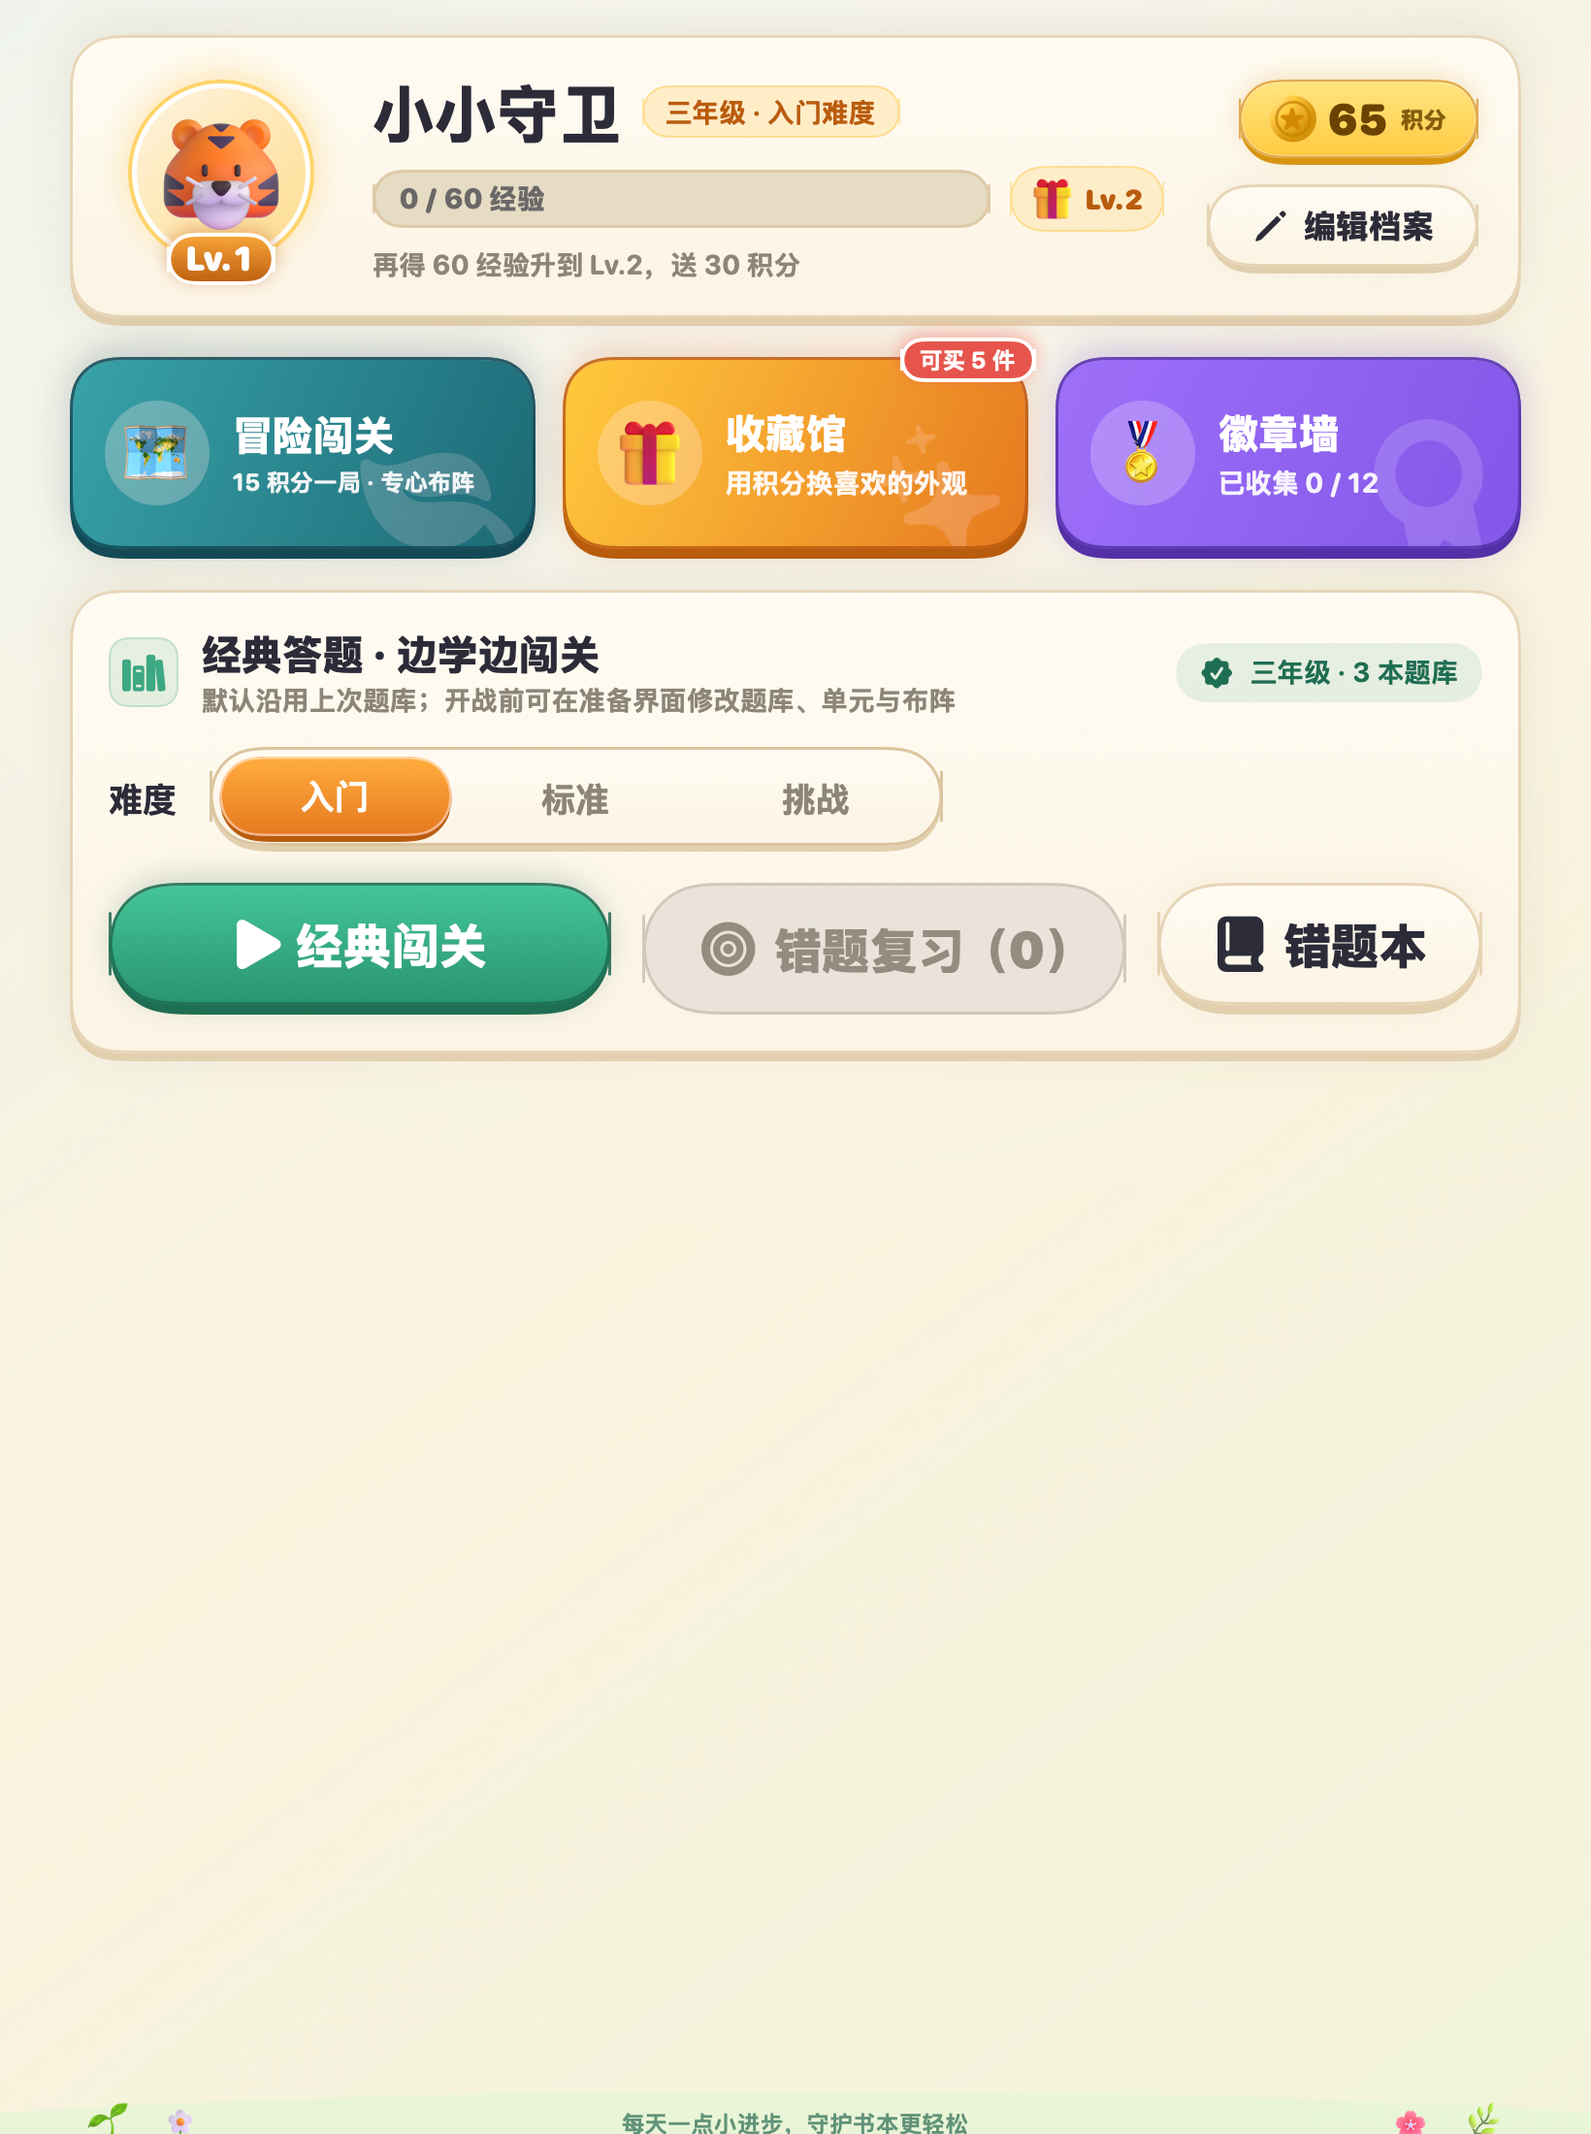
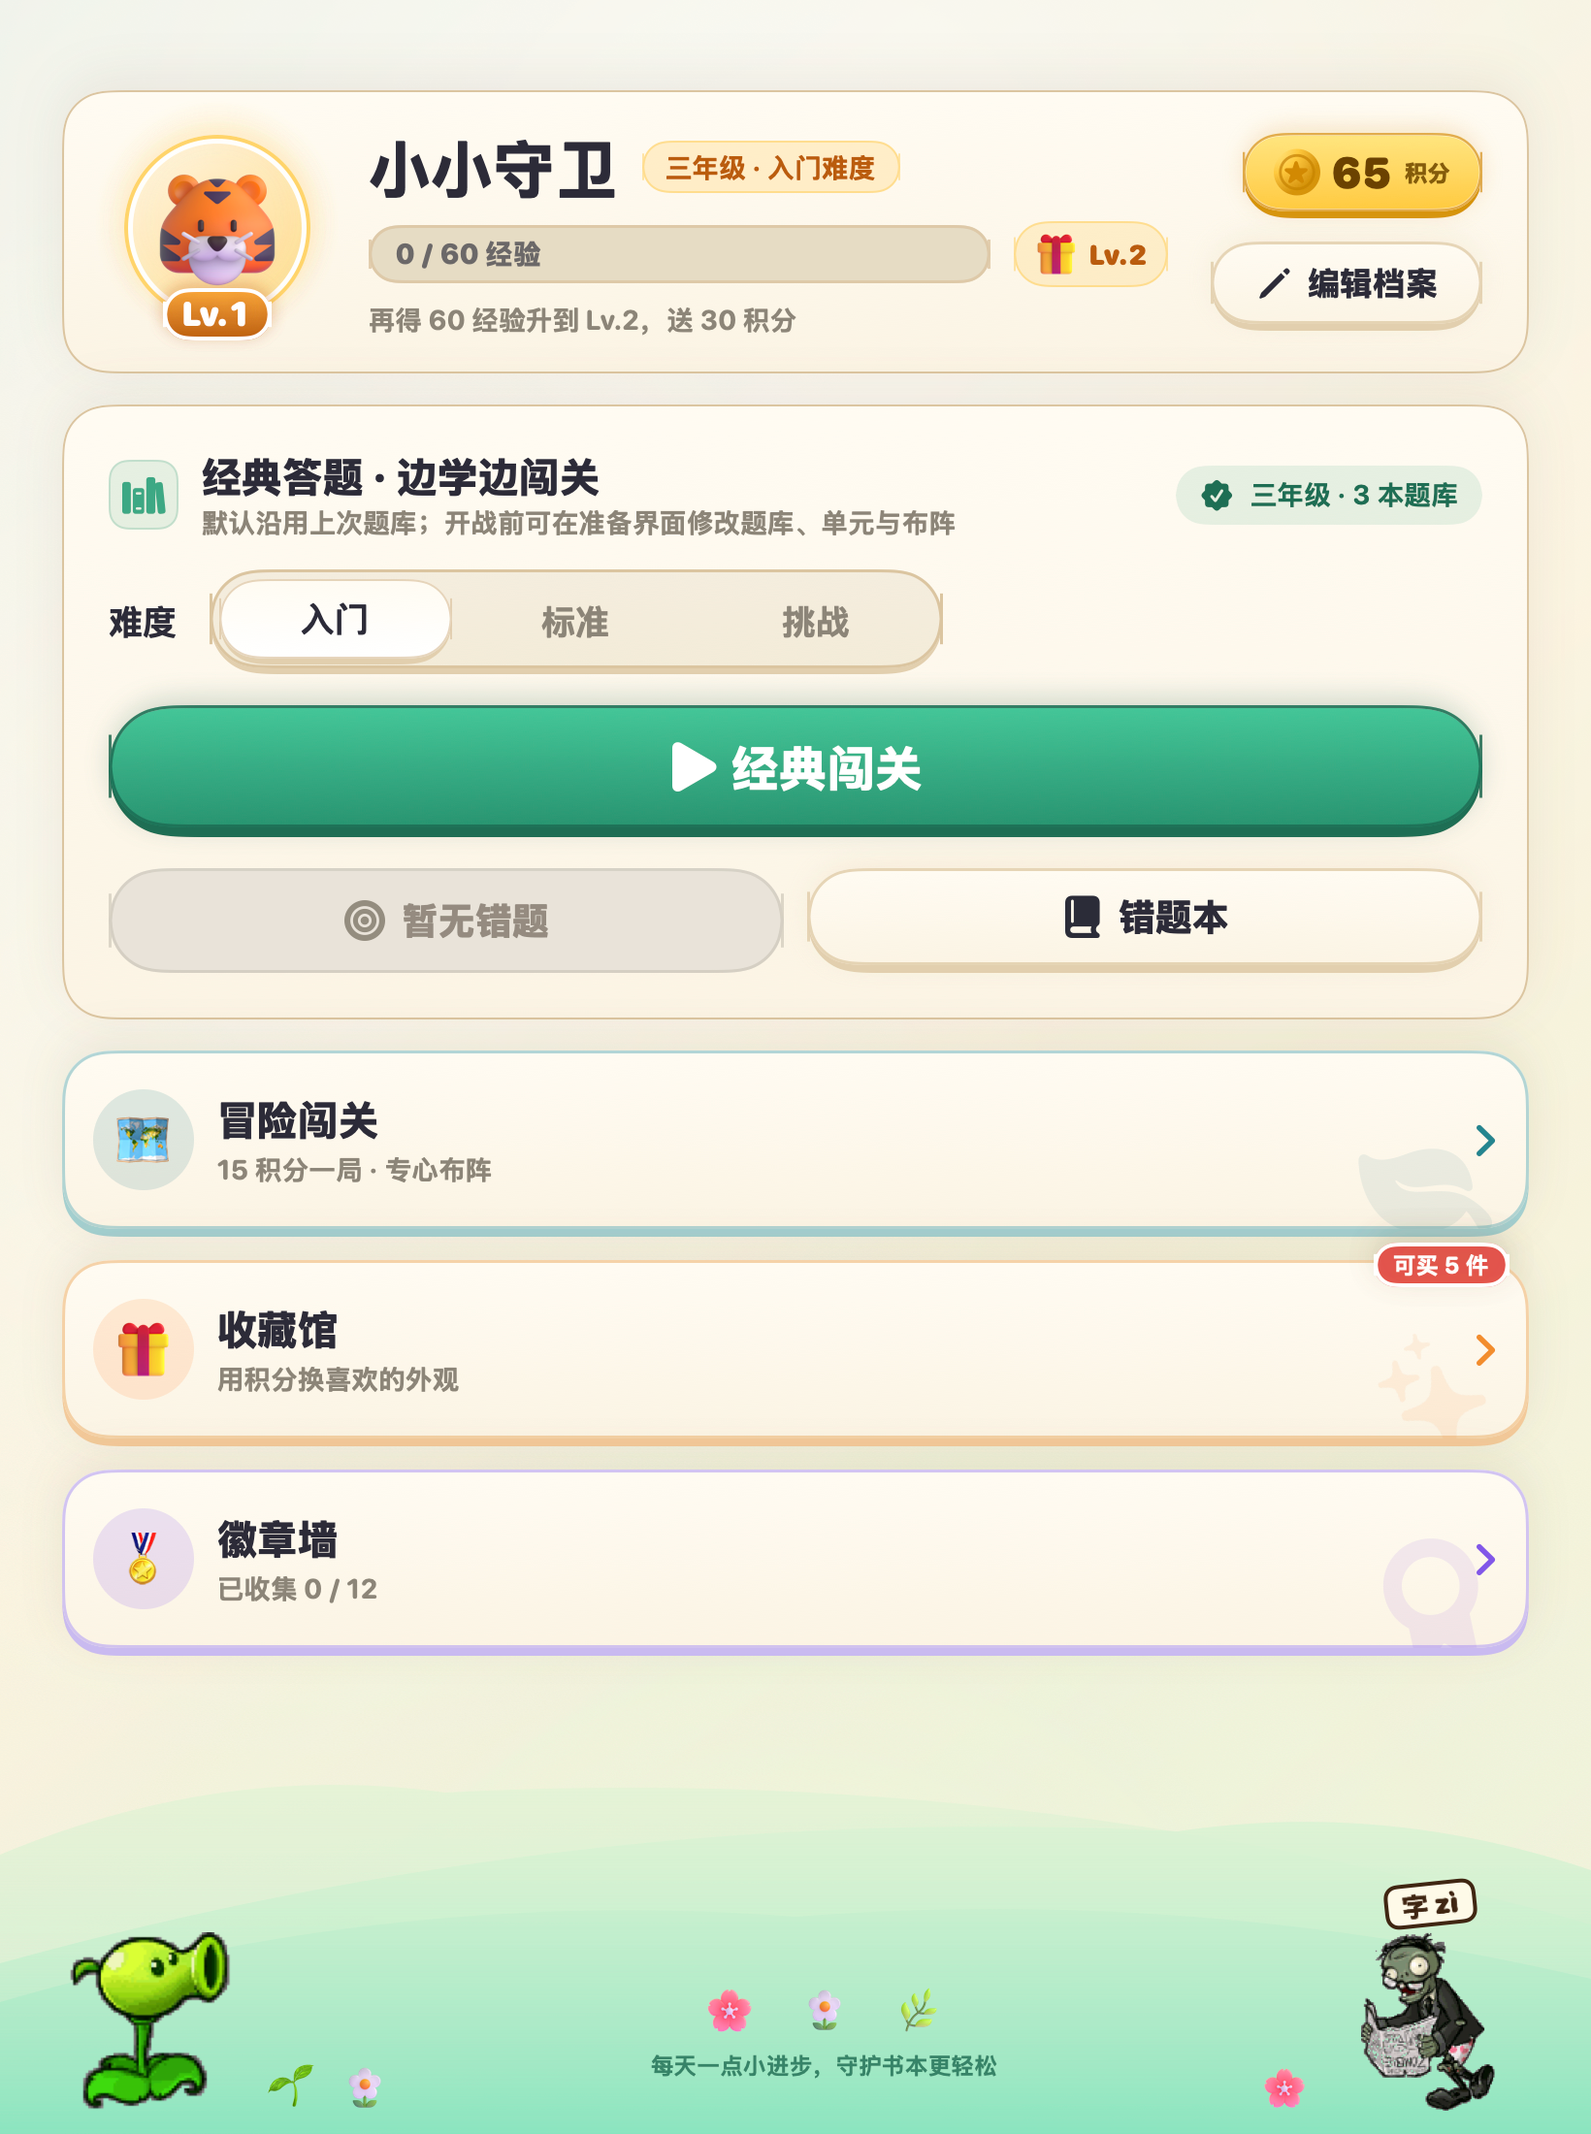
docs: UI 风格优化收口文档与最新基线截图

diff --git a/docs/ui-current/README.md b/docs/ui-current/README.md
@@ -1,23 +1,23 @@
 # 当前界面与设计基线
 
-核对日期：2026-11-26。代码基线：`main` / `0aab576a09be88d10c24a2d5371f6e71e13a87fd`。
+核对日期：2026-11-26。代码基线：`fix/fresh-game-fullscreen-map` / `2c8ad5f`（合入 `main` 的 `fe9733c` 并完成 UI 风格优化 B 档）。
 
 本文记录已经实现的界面。后续设计先核对当前代码和本目录的真实界面导出，再参考历史美术稿。
 
-实现更新：已清理 `a8986a5` 历史快照并基于当前 `main`（`0aab576`）重新导出全部 13 张基线截图，涵盖最新古树秘境草坪、糖果弹窗按钮样式及毁灭菇冒险卡位。
+实现更新：已完成绘本瓷釉四层表面体系（`AppSpacing` / `AppShadow` / `AppMotion` / `appPanel` / `appInset` / `AppModalScaffold`）全站迁移、主页与弹窗样板重排、冒险全屏铺满战场与单条顶栏整合，并基于 `2c8ad5f` 重新导出全部 13 张基线截图（前后端对照见 [UI 风格优化说明](../ui-refresh/README.md)）。
 
 ## 两套战斗界面
 
 | 区域 / 行为 | 经典闯关 | 森林冒险 |
 | --- | --- | --- |
 | 核心规则 | 答对题触发攻击，僵尸题牌用于选题 | 植物自动攻击，敌人牌子显示生命数值 |
-| 顶部 | `BattleTopBar` 容纳植物卡、阳光及 `GameHUD`，不足时分行 | 关卡名、波次 / 难度、基地生命 `x/10`、阳光、战斗时间、暂停 / 返回 |
-| 植物卡 | 顶部拖动种植，含独立铁栅门入口 | 顶部独立一行：阳光牌、所选四张植物卡、铲除按钮；卡组在冒险地图准备区选择 |
-| 战场 | `GameScene`，地图可切换；横屏可向右扩展 | `AdventureScene`，林间草坪，1200×600 场景、2:1 等比完整显示，五行九列 |
-| 战场下方 | 独立 `BattleActionBar`：大招、横向掉落道具、地图名 | 击败数量 / 波间倒计时、`雷霆大招 x/12`、敌人预告 |
+| 顶部 | `BattleTopBar` 统一 `.appPanel` 容器容纳植物卡、阳光及 `GameHUD`（`.appInset`），不足时分行 | 关卡名、波次 / 难度、基地生命 `x/10`、战斗时间与暂停 / 返回合并为一条 `.appPanel` 状态栏 |
+| 植物卡 | 顶部拖动种植，含独立铁栅门入口 | 独立一行：阳光牌、所选四张植物卡、铲除按钮；卡组在冒险地图准备区选择 |
+| 战场 | `GameScene`，地图可切换；横屏可向右扩展 | `AdventureScene`，林间草坪，1200×600 场景全屏铺满显示，五行九列 |
+| 战场下方 | 独立 `BattleActionBar`（`.appPanel`）：大招、横向掉落道具、地图名 | 紧凑底栏（`.appPanel`）：击败数量 / 波间倒计时、`雷霆大招 x/12`、敌人预告 |
 | 底部答题区 | 横屏左侧竖排切题，右侧答题；竖屏上方横排切题 | 没有答题区，也没有经典掉落道具栏 |
 | 准备阶段 | 题库与难度配置、布阵、开战核对弹窗 | 先布阵，至少一位射手；正式开战消耗 15 积分，局内花阳光 |
-| 恢复 | 后台暂停，异常关闭后重新开局 | 保存快照，可从冒险地图继续，不再次扣积分 |
+| 恢复 | 后台暂停，异常关闭后重新开局 | 后台暂停，离开战斗或返回地图即结束本局，再次进入开始新游戏，已消耗的 15 积分不返还 |
 
 源码入口：
 
@@ -27,8 +27,9 @@
 
 ## 当前视觉体系
 
-- 外层是暖米色 `Theme.paper`，文字为深灰，翡翠绿表达主要操作，橙色表达阳光和大招。
-- 冒险地图、弹窗和操作按钮使用现有糖果卡片、胶囊、厚底及按压反馈。
+- 外层是暖米色 `AppColor.paper` / `GrowthPageBackground`（L0），大容器采用无厚底的 `appPanel`（L1）与平面 `appInset`（L1-inset），仅可点击按钮与卡片采用立体厚底（L2）。
+- 文字为深墨 `AppColor.ink`，翡翠绿作为唯一主行动与选项选中色，琥珀金专用于积分/阳光/经验数值，橙色专用于大招与能量，分段控件统一采用白色凸起滑块。
+- 冒险地图、弹窗和操作按钮使用统一 `AppModalScaffold`、糖果胶囊、厚底及按压反馈；未解锁关卡用 `appPanel` 无厚底呈现且保留清晰可读性，推荐关卡加翡翠绿描边与「推荐」角标。
 - **战斗植物卡另用现有纹章边框**：深蓝卡面、银色边框、青色顶端宝石。不能把旧成长页的大白卡替代到种植栏。
 - 战场使用仓库中的 `woodland-grass.png`，植物与僵尸使用已导入的序列帧；不能按旧雷霆概念图改成三条路或重排书屋、道具和答题栏。
 - 植物卡默认 62×64 pt、头像 34×29 pt；复用实际名称与价格。新增视觉要在这个尺寸下也能辨认。
@@ -47,7 +48,7 @@ swift test --filter AdventureScreenTests
 
 关键文件：`landscape-home.png`、`landscape-map.png`、`landscape-preparing.png`、`landscape-battle.png` 及对应的 `portrait-*`；另有题库、开战核对弹窗。横屏 1180×736 pt，竖屏 820×1100 pt。平台字体和系统控件可能与 iPad 略有差异。
 
-2026-11-22 已执行上述命令，3 项界面测试通过，生成 13 张真实组件与场景导出。已目检横竖屏战斗图，确认四卡栏、五路草坪、战斗外操作区及竖屏保留的上下留白；未将该 macOS 导出等同于 iPad 实机验收。
+2026-11-26 已在 `fix/fresh-game-fullscreen-map`（`2c8ad5f`）执行上述命令，4 项界面测试通过，生成 13 张真实组件与场景导出。已目检横竖屏主页、地图、战斗及弹窗图，确认主页无大块空白、单条顶栏、全屏草坪与固定弹窗底栏；未将该 macOS 导出等同于 iPad 实机验收。
 
 ### 最新画面
 

diff --git a/docs/ui-refresh/README.md b/docs/ui-refresh/README.md
@@ -1,0 +1,43 @@
+# 字灵守卫 · UI 风格优化（B 档）总结与前后对照
+
+优化分支：`fix/fresh-game-fullscreen-map`（代码基线：`2c8ad5f`）。
+
+## 一、设计原则与 Token 收口
+
+在保留既有绘本瓷釉胶囊按钮、SF Rounded 圆体、翡翠绿主行动与战斗纹章种植卡（62×64 pt）的前提下，补齐结构层级与语义约束：
+
+1. **四层表面体系（`Support/DesignSystem.swift`）**
+   - **L0 背景层**：`GrowthPageBackground`（纯 SwiftUI 纸面径向高光与浅草色晕）。
+   - **L1 面板层**：`.appPanel(radius:tint:)`（暖白渐变、细描边与 `AppShadow.panel`，无厚底，用于大区块容器与未解锁状态卡）。
+   - **L1 内嵌层**：`.appInset(radius:tint:)`（平面浅底、1pt 细描边、无阴影，用于面板内部信息格与列表行，消除“卡套卡”）。
+   - **L2 交互层**：`.candyCard(...)` 与 `AppButton`（保留物理厚底与按压反馈，**仅用于可点击元素**）。
+2. **色彩语义单一化**
+   - **翡翠绿（`AppColor.jade`）**：每屏唯一满色 `.primary` 主按钮及选项/推荐选中态。
+   - **琥珀金（`AppColor.gold`）**：仅用于积分、阳光与经验等资源数值。
+   - **活力橙（`AppColor.accent`）**：仅用于大招、能量与升级/可买提示，不再用作分段控件选中态（`GrowthSegmentedPicker` 改为白色凸起滑块 + 深墨文字）。
+   - **浅色入口卡**：主页「冒险闯关 / 收藏馆 / 徽章墙」改为浅底 + 语义柔边 + 角标，不再与主行动按钮抢夺视觉中心。
+3. **新增统一 Token**
+   - **间距 `AppSpacing`**：`xxs(4)`、`xs(8)`、`sm(12)`、`md(16)`、`lg(24)`、`xl(32)`、`xxl(48)`。
+   - **阴影 `AppShadow`**：`panel`、`raised`、`floating`。
+   - **动效 `AppMotion`**：`press`、`appear`、`celebrate`、`stagger(_:)` 与尊重 `accessibilityReduceMotion` 的 `View.appAppear(index:)`。
+   - **弹窗脚手架 `AppModalScaffold`**：统一标题区、自适应内容区（支持 `scrollable: false` 内嵌独立滚动列表）与等宽固定底部操作栏。
+
+## 二、模块改动清单
+
+- **底座与样板**：`DesignSystem.swift`、`Theme.swift`、`GrowthComponents.swift`、`CandyModals.swift`、`ProfileHomeView.swift`、`GrowthHomeSection.swift`、`GameStartConfirmationView.swift`。
+- **战斗外框（W1）**：`BattleChrome.swift`、`BattleScreen.swift`、`GameHUD.swift`、`BattleOverlays.swift`、`AnswerPanel.swift`、`TileAnswerView.swift`、`UltimateButton.swift`、`SeedPacketStrip.swift`、`GameView.swift`、`BattlefieldView.swift`、`AdventureView.swift`。
+- **冒险地图与解锁（W2）**：`AdventureLobbyView.swift`、`AdventurePlacementPreview.swift`、`DoomShroomUnlockView.swift`。
+- **成长、收藏与结算（W3）**：`CollectionView.swift`、`CollectionView+Cards.swift`、`CollectionCardMaterial.swift`、`BadgeWallView.swift`、`GrowthBadges.swift`、`ResultView.swift`。
+- **档案、设置与弹窗（W4）**：`ProfilesView.swift`、`ProfileEditor.swift`、`HomeCarousel.swift`、`HomeCarousel+Cards.swift`、`HomeLawn.swift`、`ParentSettingsView.swift`、`ParentDataPane.swift`、`ParentPacksPane.swift`、`ParentVoicePane.swift`、`VoiceSettingsView.swift`、`QuestionBankPickerView.swift`、`CandyDropdown.swift`、`BattleMapPicker.swift`、`CharacterSkinPreview.swift`。
+
+## 三、前后画面对照
+
+| 页面 | 改前（`before/`） | 改后（`after/`） | 主要改善 |
+|---|---|---|---|
+| 横屏主页 | [landscape-home.png](before/landscape-home.png) | [landscape-home.png](after/landscape-home.png) | 左 60% 主战卡 + 右侧竖排浅色入口卡 + 底部草坪地景，消除底部空白与色彩冲突 |
+| 竖屏主页 | [portrait-home.png](before/portrait-home.png) | [portrait-home.png](after/portrait-home.png) | 底部 200pt 森林草坪与守卫/僵尸精灵填满下半屏空白，「暂无错题」降为次级禁用态 |
+| 冒险地图 | [landscape-map.png](before/landscape-map.png) | [landscape-map.png](after/landscape-map.png) | 白色滑块难度器、未解锁关卡清晰可读且无厚底、推荐关翡翠绿描边与「推荐」角标、卡片留白收紧 |
+| 冒险横屏战斗 | [landscape-battle.png](before/landscape-battle.png) | [landscape-battle.png](after/landscape-battle.png) | 顶部关卡/生命/计时/暂停合为一条 `.appPanel` 状态栏，全屏铺满战场无黑边 |
+| 冒险竖屏战斗 | [portrait-battle.png](before/portrait-battle.png) | [portrait-battle.png](after/portrait-battle.png) | 单条顶栏 + 紧凑底栏，最大化草坪展示空间 |
+| 开战核对弹窗 | [start-confirmation.png](before/start-confirmation.png) | [start-confirmation.png](after/start-confirmation.png) | 统一 `AppModalScaffold`、2 列 `.appInset` 信息格消除卡套卡、底栏左右边缘与上方严格对齐 |
+| 题库选择弹窗 | [question-bank.png](before/question-bank.png) | [question-bank.png](after/question-bank.png) | 迁移至 `AppModalScaffold(scrollable: false)`、`.appPanel` 筛选面板、翡翠绿下拉展开态 |

diff --git a/README.md b/README.md
@@ -43,14 +43,14 @@
 孩子主页新增「冒险闯关」入口，使用原有经典答题游戏赚取的积分，不增加独立答题页面或积分来源。经典闯关、错题复习和收藏馆保持原规则。
 
 - 第一章「森林冒险」共六关，每关五波，逐关解锁并记录最高星级。
-- 冒险、收藏馆与徽章墙入口共用主页一行；主页和冒险地图采用一屏布局。冒险页沿用糖果卡片、胶囊按钮与按压反馈，横屏左右分栏，竖屏上下分区。
+- 冒险、收藏馆与徽章墙入口在孩子主页采用竖排浅色入口卡与经典闯关并列（竖屏全宽堆叠），主页与冒险地图均为一屏布局。冒险页沿用糖果卡片、胶囊按钮与按压反馈，横屏左右分栏，竖屏上下分区。
 - 从四种射手与两种坚果中带上四张卡牌，在五行九列草坪布阵；射手自动攻击，玩家可继续种植、铲除和释放战斗充能大招。
 - 在「收藏馆 → 道具解锁」达到 Lv.3 后花 300 积分永久解锁毁灭菇，各孩子独立拥有。解锁后可在经典模式所有地图种植，也可选入冒险四卡；未解锁时不能选择或种植。
 - 毁灭菇消耗 125 阳光，蓄力 1 秒后对半径 3.5 格内敌人造成 120 伤害；冷却 50 秒，爆炸原格禁种 180 秒。准备阶段预放会在开战后引爆；计时随战斗暂停与恢复，友方植物保留。经典模式爆破走原击杀奖励，不会虚构答题正确记录。
 - 每局正式开始时扣 15 积分，准备阶段返回免费；局内使用阳光，阳光来自定时补给、击杀和波次奖励。
 - 通关记录星级、关卡进度及通章纪念，不发放积分、经验或经典徽章奖励；失败、主动放弃不返还入场积分。
-- 后台暂停，返回后手动继续；每两秒及种植、大招、暂停等操作后保存快照，异常关闭后可从冒险地图恢复原局，不再次扣费。恢复最多回退最近两秒。
-- 冒险存档随现有孩子成长数据备份、恢复和删除，不新增数据库表。
+- 后台暂停，返回后手动继续；离开战斗或返回地图即结束本局，再次进入开始新游戏，已消耗的 15 积分不返还。
+- 冒险关卡进度与星级随现有孩子成长数据备份、恢复和删除，不新增数据库表。
 
 ## 目录
 
